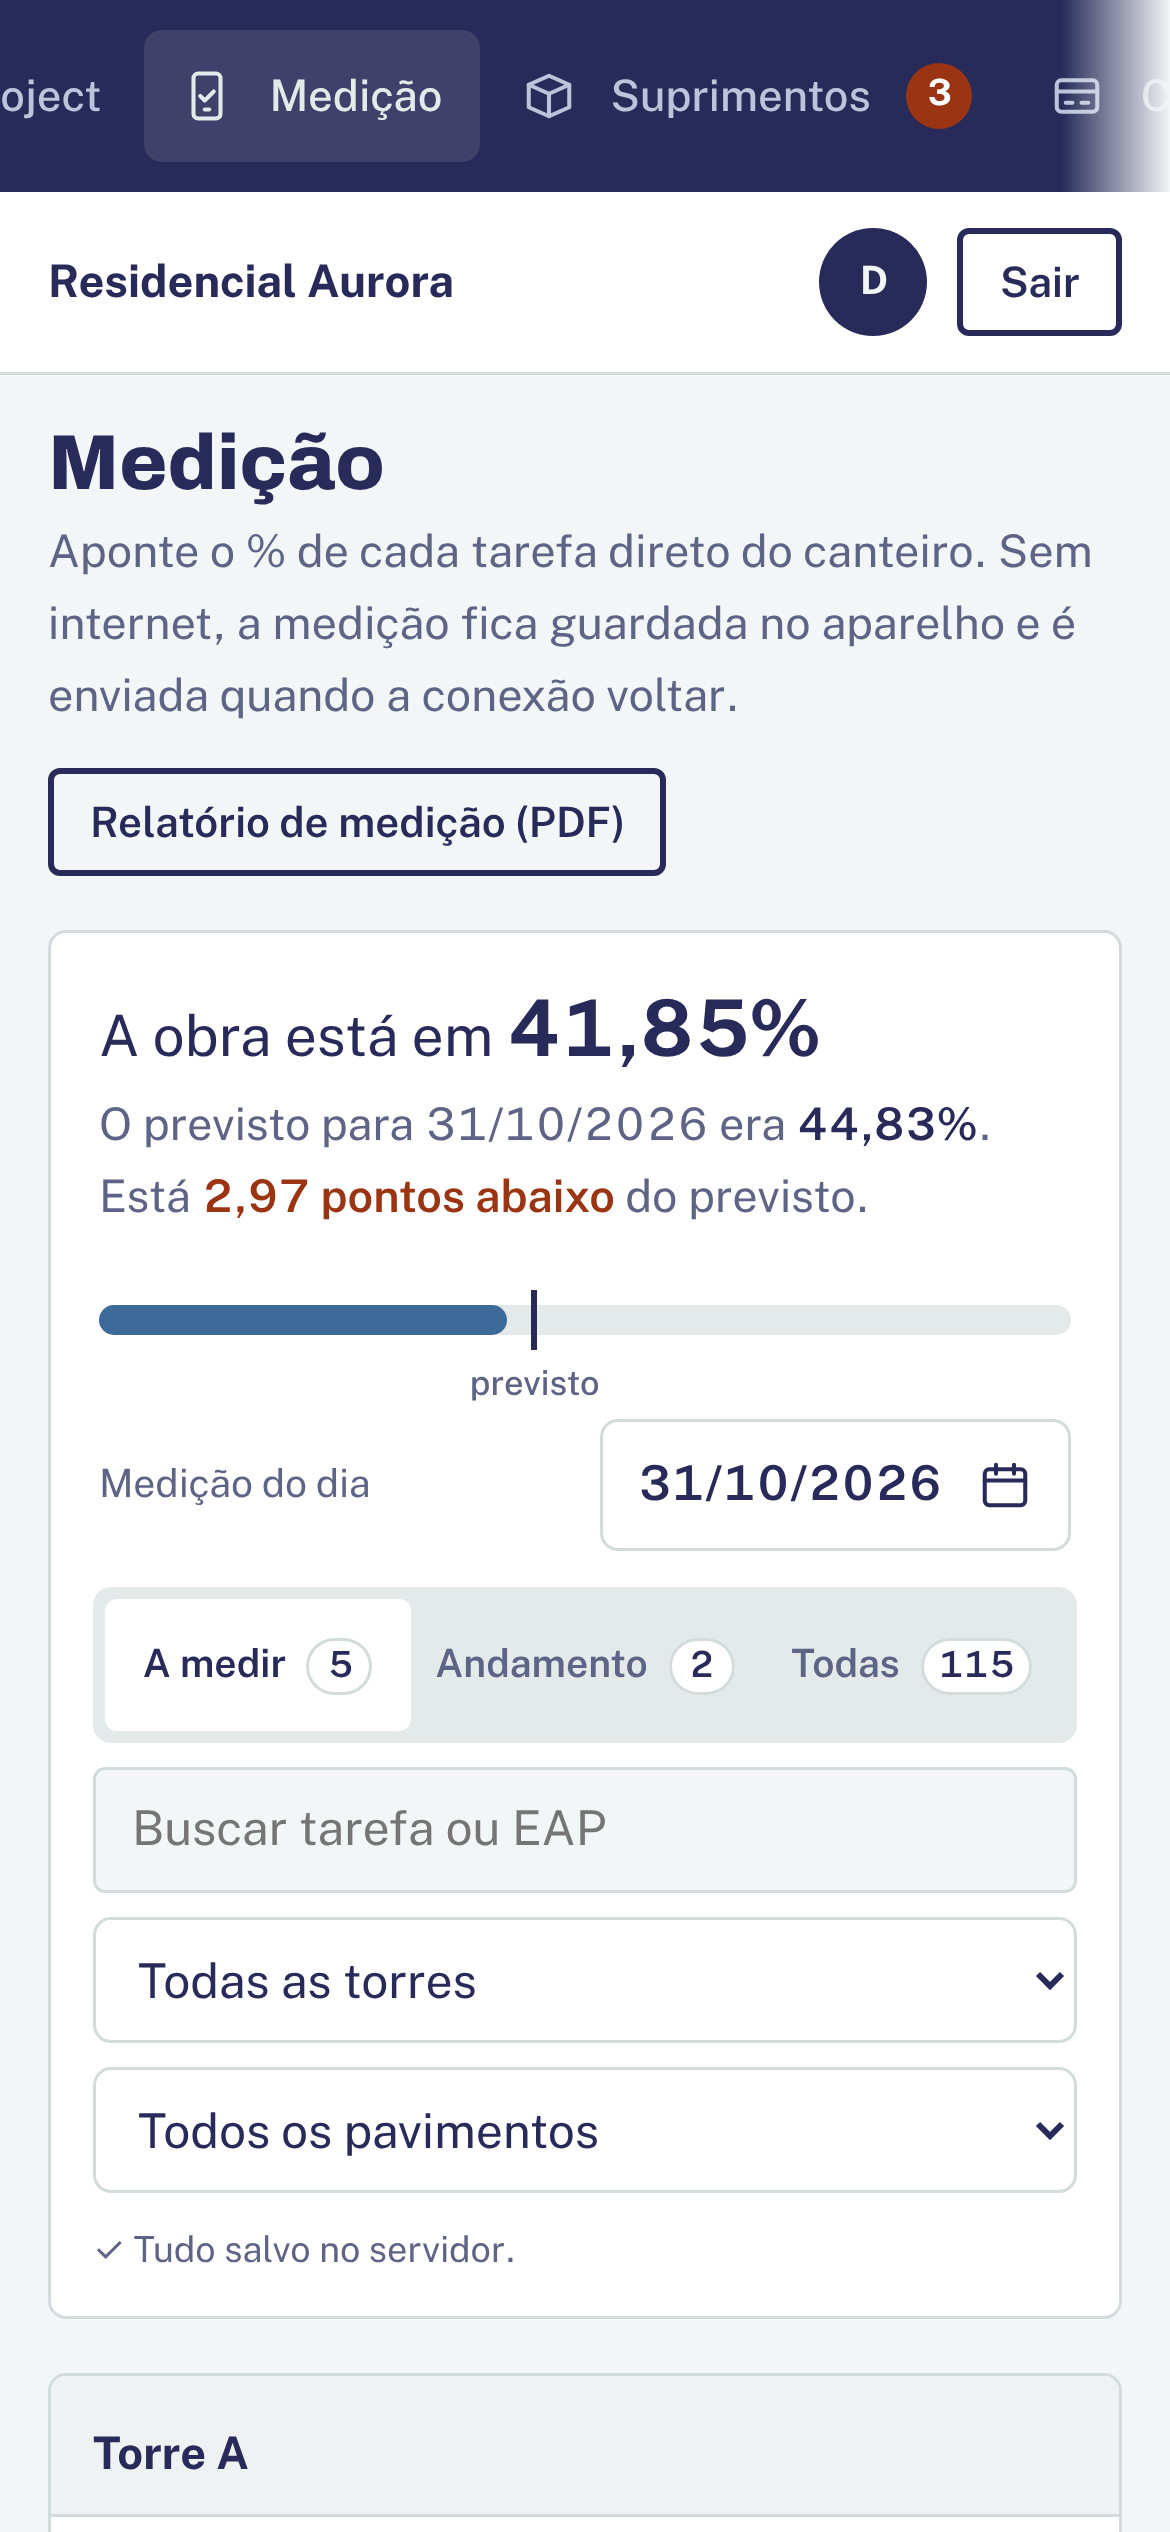
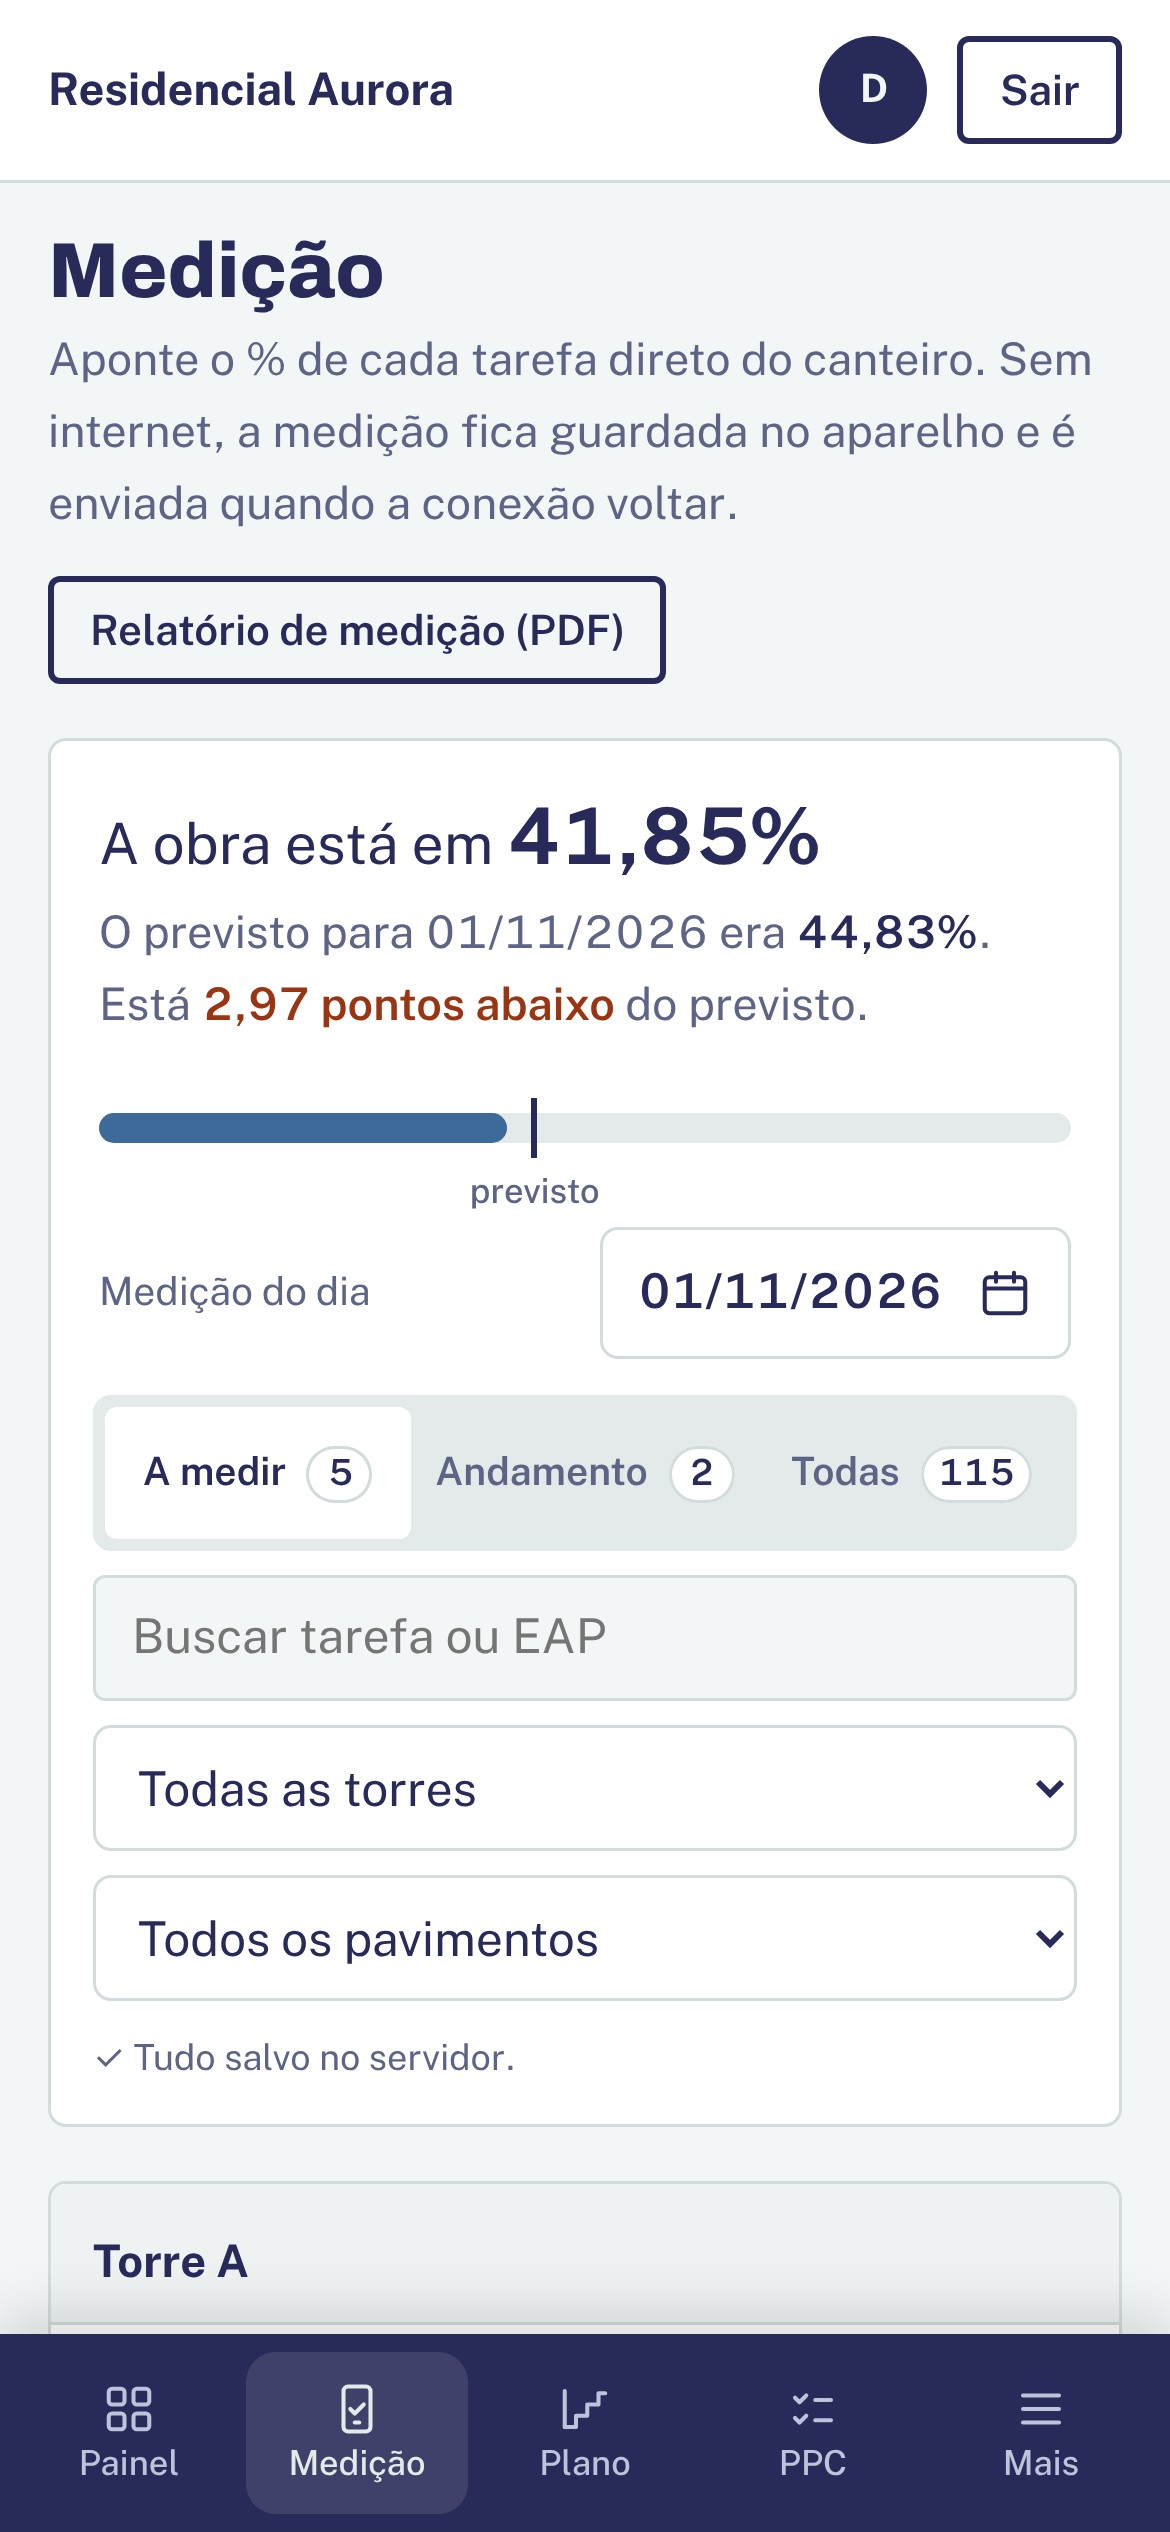
Site: foto da medição no celular com a barra de menu embaixo e moldura sem corte
Claude-Session: https://claude.ai/code/session_019mzwrJJmGSibYtQ3xemZZR

diff --git a/custoplano/web/index.html b/custoplano/web/index.html
@@ -299,7 +299,7 @@ footer.site .copy{flex-basis:100%;font-size:13px}
 .tela-img{position:relative;border:10px solid #2B2F3A;border-bottom-width:12px;border-radius:14px;background:#2B2F3A;box-shadow:0 18px 40px color-mix(in srgb,#002455 16%,transparent);overflow:hidden;margin-bottom:14px}
 .tela-img img{border-radius:4px}
 .tela-cel{display:grid;grid-template-columns:minmax(0,300px) minmax(0,1fr);gap:24px 40px;align-items:center}
-.cel{border:10px solid #2B2F3A;border-radius:38px;background:#2B2F3A;box-shadow:0 18px 40px color-mix(in srgb,#002455 16%,transparent);overflow:hidden;max-height:560px}
+.cel{border:10px solid #2B2F3A;border-radius:38px;background:#2B2F3A;box-shadow:0 18px 40px color-mix(in srgb,#002455 16%,transparent);overflow:hidden}
 .cel img{display:block;width:100%;height:auto;border-radius:28px}
 @media (max-width:720px){.tela-cel{grid-template-columns:1fr}.cel{max-width:280px;margin:0 auto}}
 .tela-img img{display:block;width:100%;height:auto}
@@ -1208,7 +1208,7 @@ button.chip[data-adm^="serv:"]{border:0;cursor:pointer;font:inherit;display:inli
           <figcaption>Cada pacote do cronograma vira uma compra com data limite: a data em que o serviço começa menos o prazo do fornecedor. O fornecedor também volta para o MS Project numa coluna própria.</figcaption>
         </figure>
         <figure class="tela" role="tabpanel" id="tp-med" aria-labelledby="tt-med" hidden>
-          <div class="tela-cel"><div class="cel"><img src="/web/telas/med.jpg?v=4" width="390" height="844" alt="Medição no celular: a obra está em 41,85%, contra 44,83% previstos, com a lista de tarefas a medir por torre e pavimento" loading="lazy"></div>
+          <div class="tela-cel"><div class="cel"><img src="/web/telas/med.jpg?v=5" width="390" height="844" alt="Medição no celular: a obra está em 41,85%, contra 44,83% previstos, com a lista de tarefas a medir por torre e pavimento" loading="lazy"></div>
           <figcaption>Na sexta-feira, a equipe mede pelo celular, tarefa por tarefa. Sem sinal no canteiro, a medição fica guardada no aparelho e é enviada quando a conexão volta. O resumo diz em uma frase se a obra está à frente ou atrás do previsto.</figcaption></div>
         </figure>
         <div class="telas-cta">
